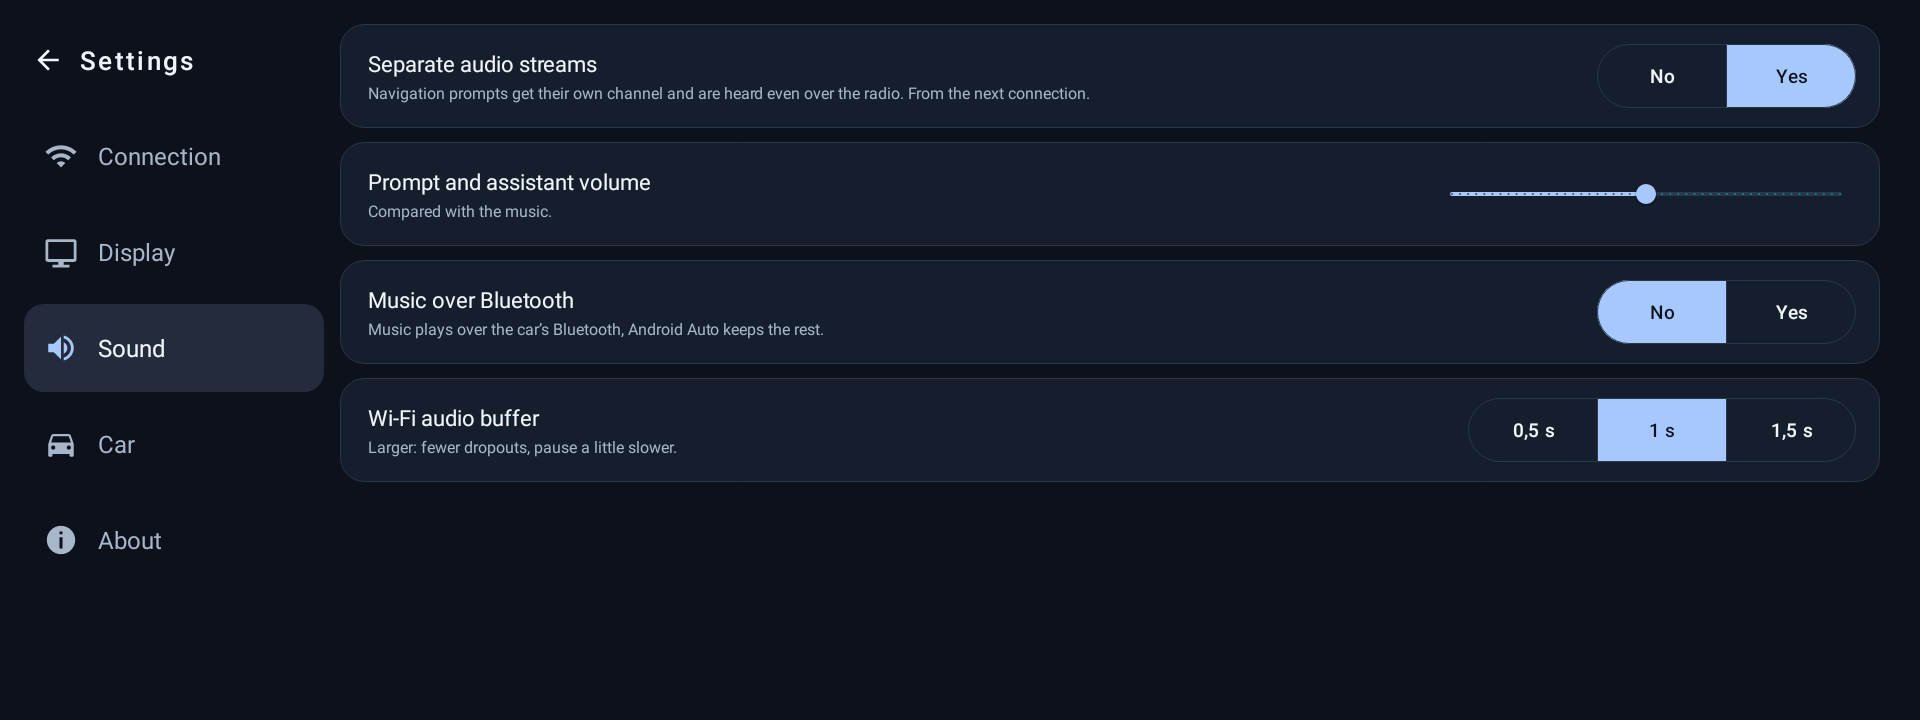
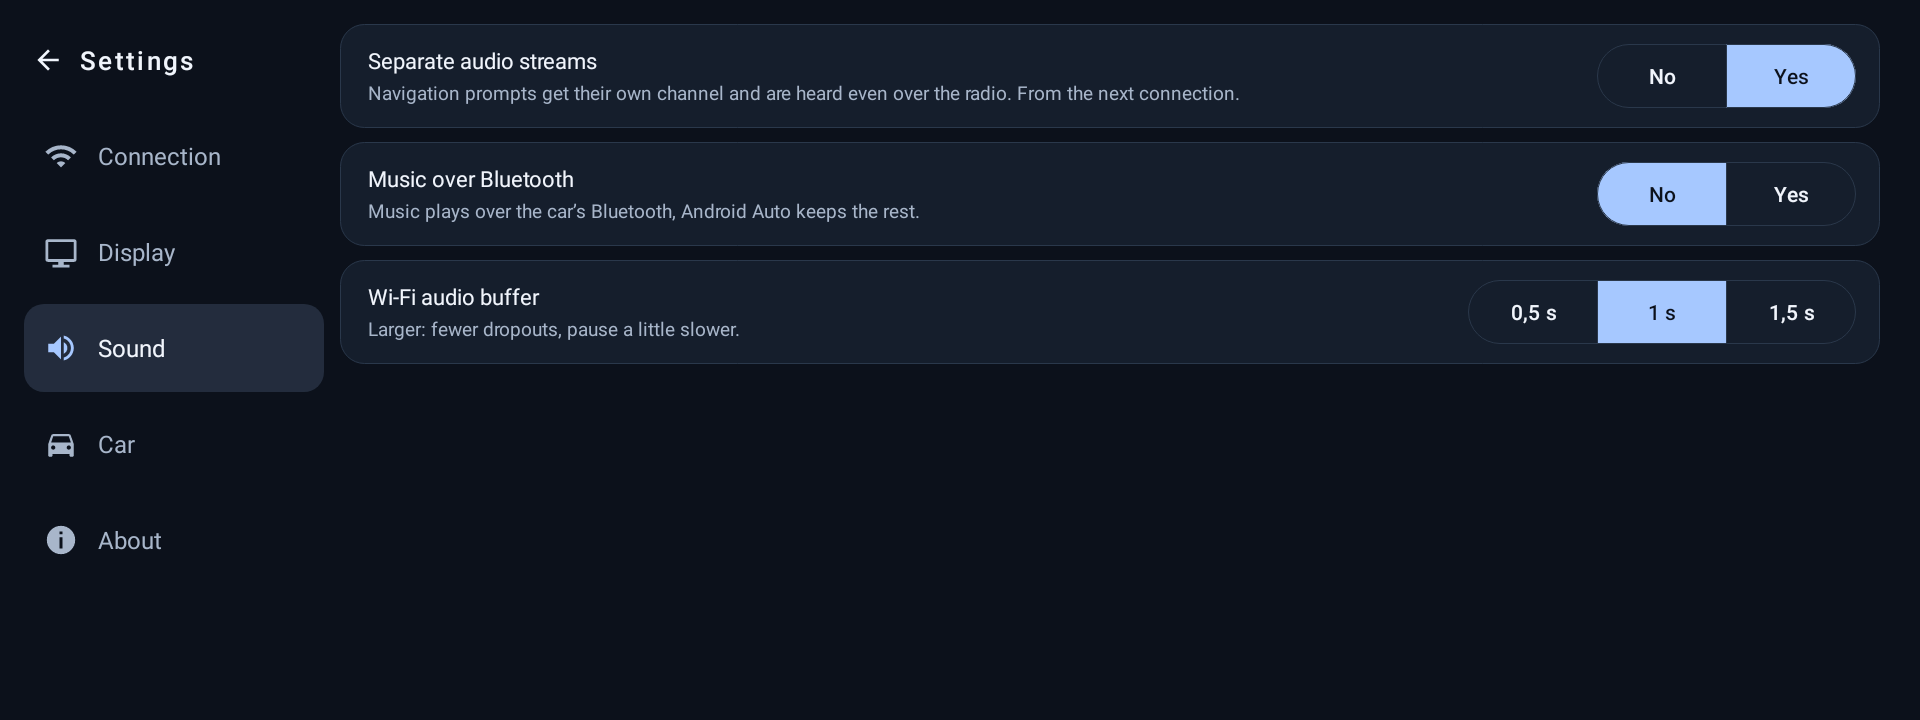
README and screenshots brought up to date; test mode description no longer mentions MG4Dash's consumption

diff --git a/README.md b/README.md
@@ -27,12 +27,16 @@ can plan your charging stops.
 
 ### Android Auto, wireless and automatic
 - Once your phone is paired with the car over Bluetooth, it joins the car's own Wi-Fi hotspot and
-  Android Auto starts by itself every trip. A USB cable works too.
+  Android Auto starts by itself every trip. A USB cable works too: a phone already plugged in when
+  the car starts connects over USB, ahead of wireless.
 - The car has a single Wi-Fi radio. When your phone connects over Bluetooth, DiAuto switches the
-  car's own Wi-Fi client off so the Android Auto hotspot gets the whole radio (smooth picture and
-  sound), and switches it back on once the session has ended for a while (1 minute by default,
-  10 s to 5 min in *Settings → Connection*). With no phone in the car, the car keeps joining its own
-  Wi-Fi networks, such as your home network.
+  car's own Wi-Fi client off and restarts the hotspot, so Android Auto gets the whole radio (smooth
+  picture and sound). The client comes back once no phone is linked (after 10 s by default, 10 s to
+  5 min in *Settings → Connection*). At a car start with no phone linked, DiAuto switches it on, so
+  the car joins its own Wi-Fi networks, such as your home network.
+- The hotspot's 5 GHz channel is chosen automatically, or by you in *Settings → Connection*.
+- Calls go through the car's hands-free. On SWI69, the car's call window no longer covers Android
+  Auto (SWI68 is still being looked at).
 - DiAuto installs as an **update of the car's original Android Auto app** (AllGo). The car's
   launcher sees it as its Android Auto: the Android Auto tile works and the media card shows the
   song, artist and cover.
@@ -58,8 +62,15 @@ internet over Bluetooth is not possible on the MG4: its Bluetooth stack has no n
 - DiAuto sends Maps the battery level, range, consumption and the **real fast-charging power of your
   MG4 version** (Standard 51 kWh, Comfort / Luxury / XPower 64 kWh, Extended Range 77 kWh). Maps
   then shows the battery at arrival and adds charging stops to long routes.
-- The version, net battery capacity and state of health are detected from the car. Each can be
-  changed in *Settings → Car*, with a button to go back to automatic.
+- The battery version comes from the car when it reports it, otherwise from your choice in
+  *Settings → Car* (64 kWh by default, and Comfort can only be chosen by hand). The state of health
+  is measured while you drive, after about 15 % of charge used: until then the setting shows it as
+  being measured, and Maps is told 95 %. Each can be changed, with a button to go back to automatic.
+- **Consumption model for Maps (experimental, off by default):** instead of the car's average
+  consumption, Maps gets a description of the car: rolling and air resistance, outside temperature
+  and climate power. Google's servers then work out each part of the route with the expected speed,
+  traffic and climb. A window explains it when you switch it on. The figures are estimates, still
+  being calibrated on real trips.
 - **Battery preheating before a charging stop** (off by default): when the next stop on the Maps
   route is a charger, DiAuto turns battery heating on a set time before you arrive (30 min by
   default, 5 to 60 min) and turns it off again if the route changes. It uses the battery
@@ -69,9 +80,10 @@ internet over Bluetooth is not possible on the MG4: its Bluetooth stack has no n
 
 ### Sound
 - Navigation prompts and the assistant get their own channel, so they are heard over the radio or
-  your music, at a voice level you choose (up to +200 %).
+  your music.
 - Music plays over Android Auto by default. *Music over Bluetooth* keeps the music on the car's
   Bluetooth and the rest on Android Auto.
+- *Wi-Fi audio buffer*: shorter makes play and pause quicker, longer gives fewer dropouts.
 
 <p align="center"><img src="docs/screenshots/settings_sound.png" width="800" alt="Settings, Sound tab"></p>
 
@@ -80,7 +92,16 @@ internet over Bluetooth is not possible on the MG4: its Bluetooth stack has no n
   buttons, in the car's language (22 languages).
 - A short **tutorial** at first start shows the gestures and the main features. It can be skipped,
   and shown again from *Settings → About*.
-- Updates from this repository, from the app (*Settings → About*, betas optional).
+- Night mode follows the car's lights and sunset to sunrise, or the sun only.
+- Updates from this repository, from the app (*Settings → About*, betas optional). The update window
+  shows how much data will be downloaded, and advises using a Wi-Fi network or USB if you can.
+- **Test mode** (*Settings → About*, off by default) shows the features still being tested, such as
+  uncompressed music or live figures for the consumption model.
+
+### Privacy
+DiAuto sends no data anywhere: its only Internet access is checking this repository for updates.
+Wireless Android Auto only accepts a phone on the car's own hotspot. Logs stay on the car unless you
+export them, and contain no destinations, road names, GPS position, or phone and Wi-Fi names.
 
 ## Gestures over Android Auto
 
@@ -130,7 +151,8 @@ Uninstall updates*) or with `adb shell pm uninstall com.allgo.app.androidauto`.
 Open an [issue](https://github.com/Skittle6938/DiAuto-MG4/issues) and add:
 - *Settings → About → Compatibility report*: a short summary of your setup (car firmware, Android,
   DiAuto settings), with no personal data.
-- *Settings → About → Logs → Export*, taken right after the problem.
+- The log from *Settings → About → Logs → Export*, taken right after the problem. Logs are on by
+  default (about 0.6 MB per hour of driving, 20 MB at most) and can be switched off.
 
 <p align="center"><img src="docs/screenshots/settings_about.png" width="800" alt="Settings, About tab"></p>
 
